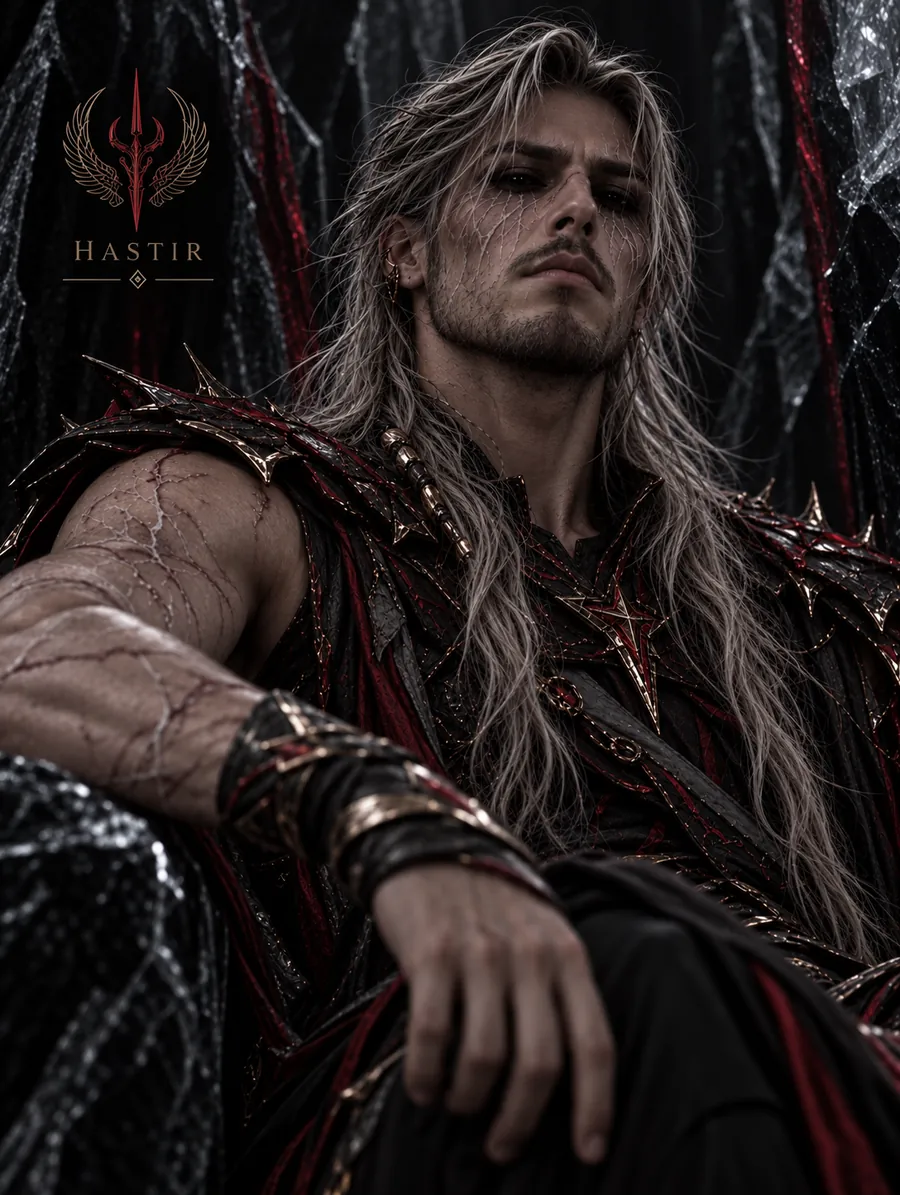
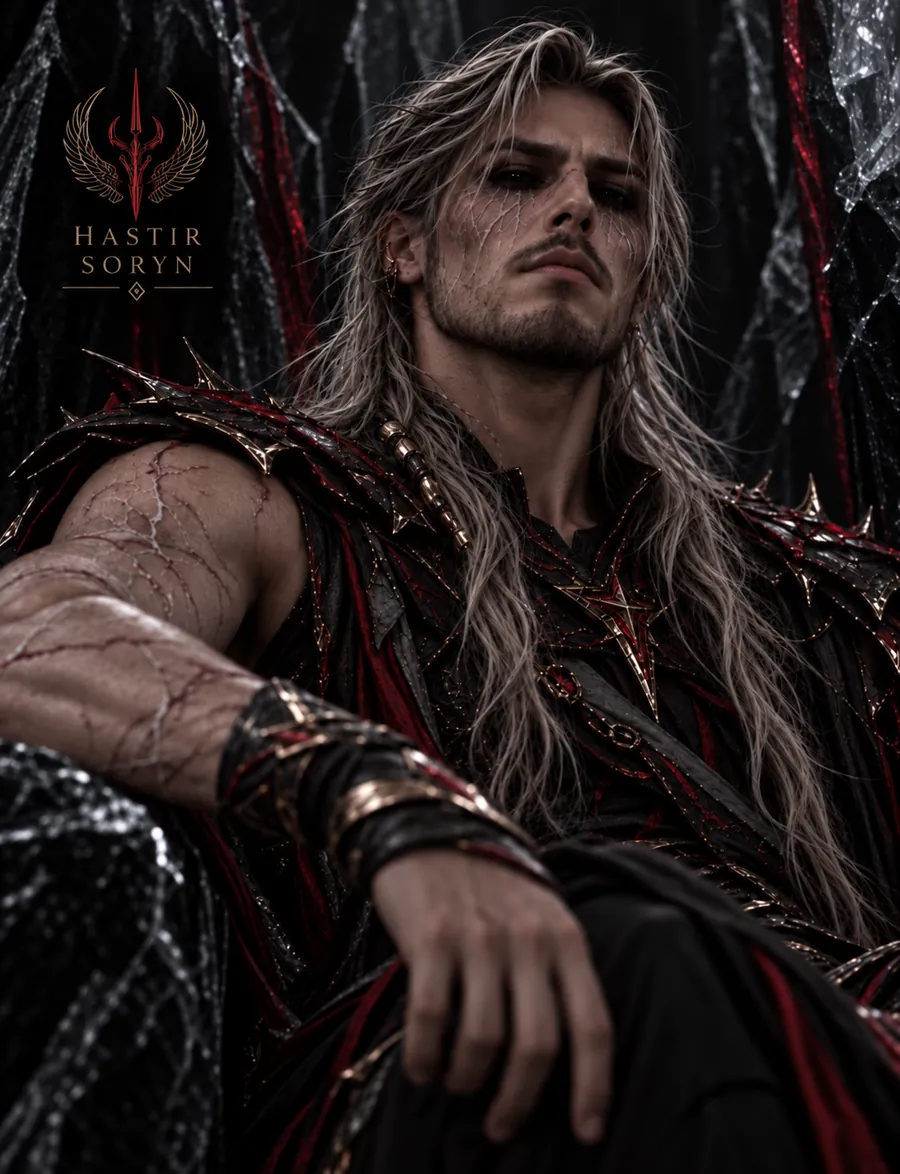
Tipografia Cormorant SC y retrato nuevo de Hastir
Cormorant SC en versalitas, del mismo aire que el grabado de los retratos.
Autoalojada y recortada al juego de caracteres de la pagina: 21 KB por peso en
vez de 746 KB, sin pedirle nada a Google mientras alguien escucha. size-adjust
al 112% porque su altura de x es mucho menor que la de Georgia y al mismo px se
veia chica; asi no hubo que tocar ni un tamano del CSS.

Hastir: version nueva del retrato, que ya dice el apellido como los otros dos.

SHELL_CACHE v5; las tres caras entran al precache para que offline no cambie.

diff --git a/styles.css b/styles.css
@@ -1,3 +1,10 @@
+/* Cormorant SC: versalitas, del mismo aire que el grabado de los retratos.
+   Autoalojada y recortada al juego de caracteres de la pagina: 21 KB por peso
+   en vez de 746 KB, y sin pedirle nada a Google mientras alguien escucha. */
+@font-face{font-family:"Cormorant SC";src:url("assets/fuentes/cormorant-sc-400.woff2") format("woff2");font-weight:400;font-style:normal;font-display:swap;size-adjust:112%}
+@font-face{font-family:"Cormorant SC";src:url("assets/fuentes/cormorant-sc-500.woff2") format("woff2");font-weight:500;font-style:normal;font-display:swap;size-adjust:112%}
+@font-face{font-family:"Cormorant SC";src:url("assets/fuentes/cormorant-sc-600.woff2") format("woff2");font-weight:600;font-style:normal;font-display:swap;size-adjust:112%}
+
 /* Libro II: un solo tema, noche helada. Misma estructura que el Libro I (hero,
    escuchar, reproductor fijo); fondo de noche polar con aurora fría, vidrio
    escarchado oscuro, acentos de hielo y nieve cayendo (nieve.js). */
@@ -19,7 +26,7 @@
   --shadow:0 24px 70px rgba(0,0,0,.45);
   --radius:20px;
   --player-height:104px;
-  --serif:Georgia,"Times New Roman",serif;
+  --serif:"Cormorant SC",Georgia,"Times New Roman",serif;
   --sans:Inter,ui-sans-serif,system-ui,-apple-system,BlinkMacSystemFont,"Segoe UI",sans-serif;
   color-scheme:dark;
 }

diff --git a/sw.js b/sw.js
@@ -1,6 +1,6 @@
 // REGLA (heredada del Libro I): todo cambio a index.html, styles.css, content.js,
 // app.js o nieve.js exige subir SHELL_CACHE antes de publicar.
-const SHELL_CACHE = "el-ciclo-inmovil-libro2-shell-v4";
+const SHELL_CACHE = "el-ciclo-inmovil-libro2-shell-v5";
 // Mismo nombre que AUDIO_CACHE en app.js ("Guardar sin conexión"). Si no
 // coinciden, el activate de abajo borra los capitulos guardados. No subirlo sin
 // motivo: vacia lo que cada oyente guardo.
@@ -13,6 +13,9 @@ const SHELL = [
   "./app.js",
   "./nieve.js",
   "./manifest.webmanifest",
+  "./assets/fuentes/cormorant-sc-400.woff2",
+  "./assets/fuentes/cormorant-sc-500.woff2",
+  "./assets/fuentes/cormorant-sc-600.woff2",
   "./assets/icons/favicon.ico",
   "./assets/icons/icon-192.png",
   "./assets/icons/icon-512.png",

diff --git a/index.html b/index.html
@@ -147,7 +147,7 @@
           <figcaption><strong>Yseva Soryn</strong><span>El Astrónomo de la Guerra</span></figcaption>
         </figure>
         <figure class="cast-card">
-          <img src="assets/personajes/hastir-soryn.webp" alt="Retrato de Hastir Soryn" width="900" height="1195" loading="lazy" decoding="async">
+          <img src="assets/personajes/hastir-soryn.webp" alt="Retrato de Hastir Soryn" width="900" height="1174" loading="lazy" decoding="async">
           <figcaption><strong>Hastir Soryn</strong><span>La Garra Carmesí</span></figcaption>
         </figure>
         <figure class="cast-card">
